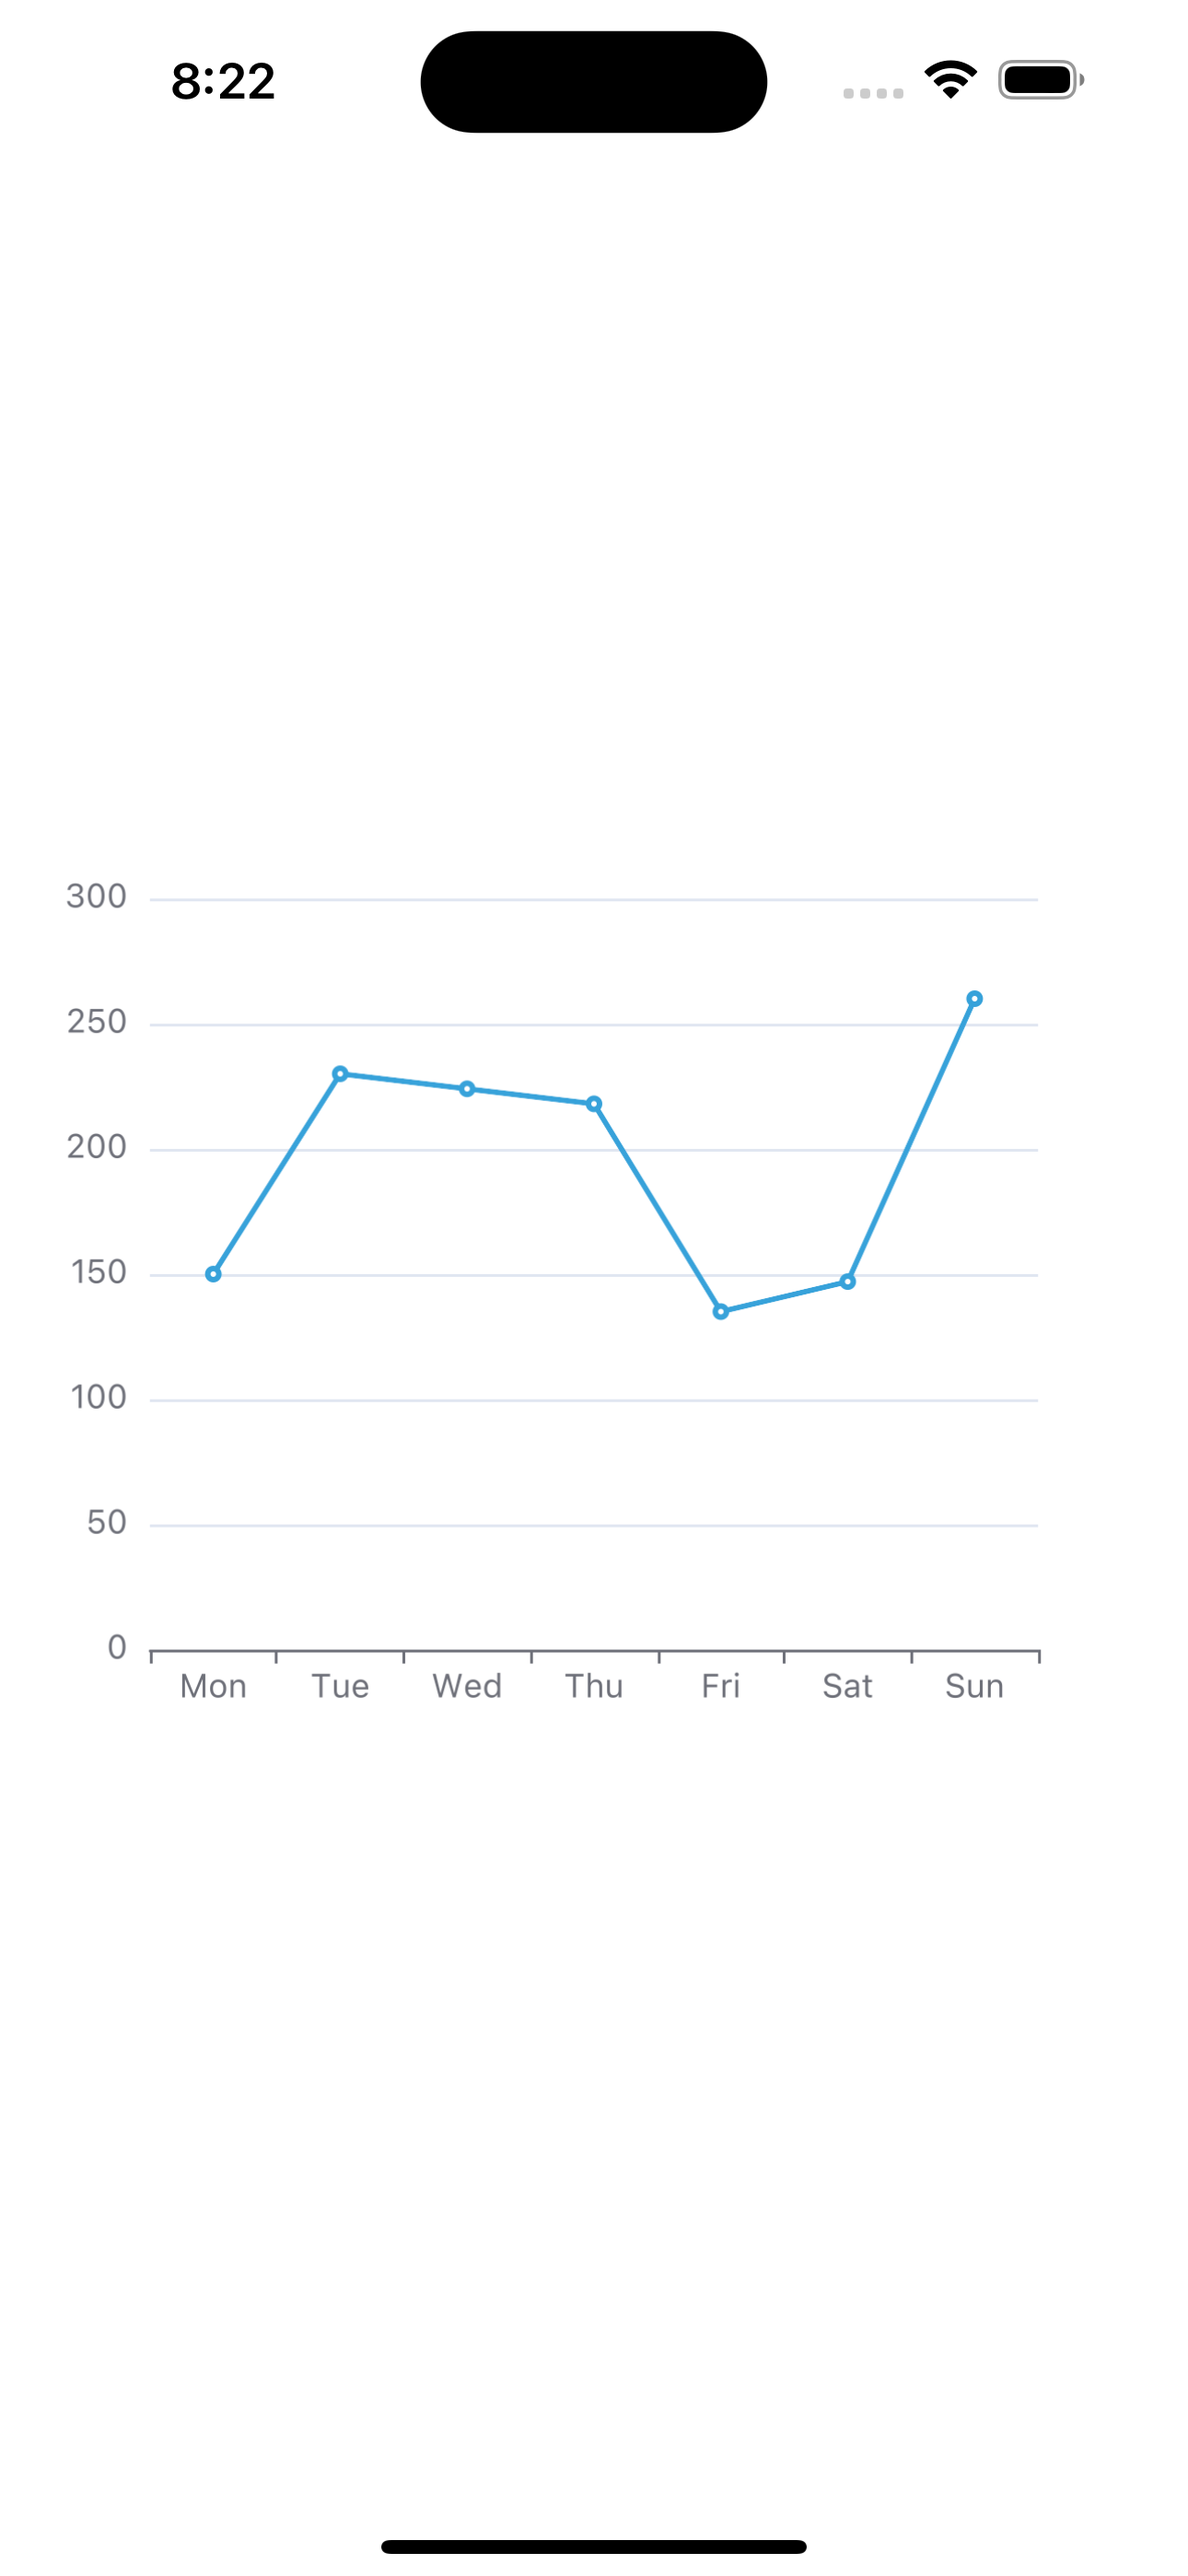
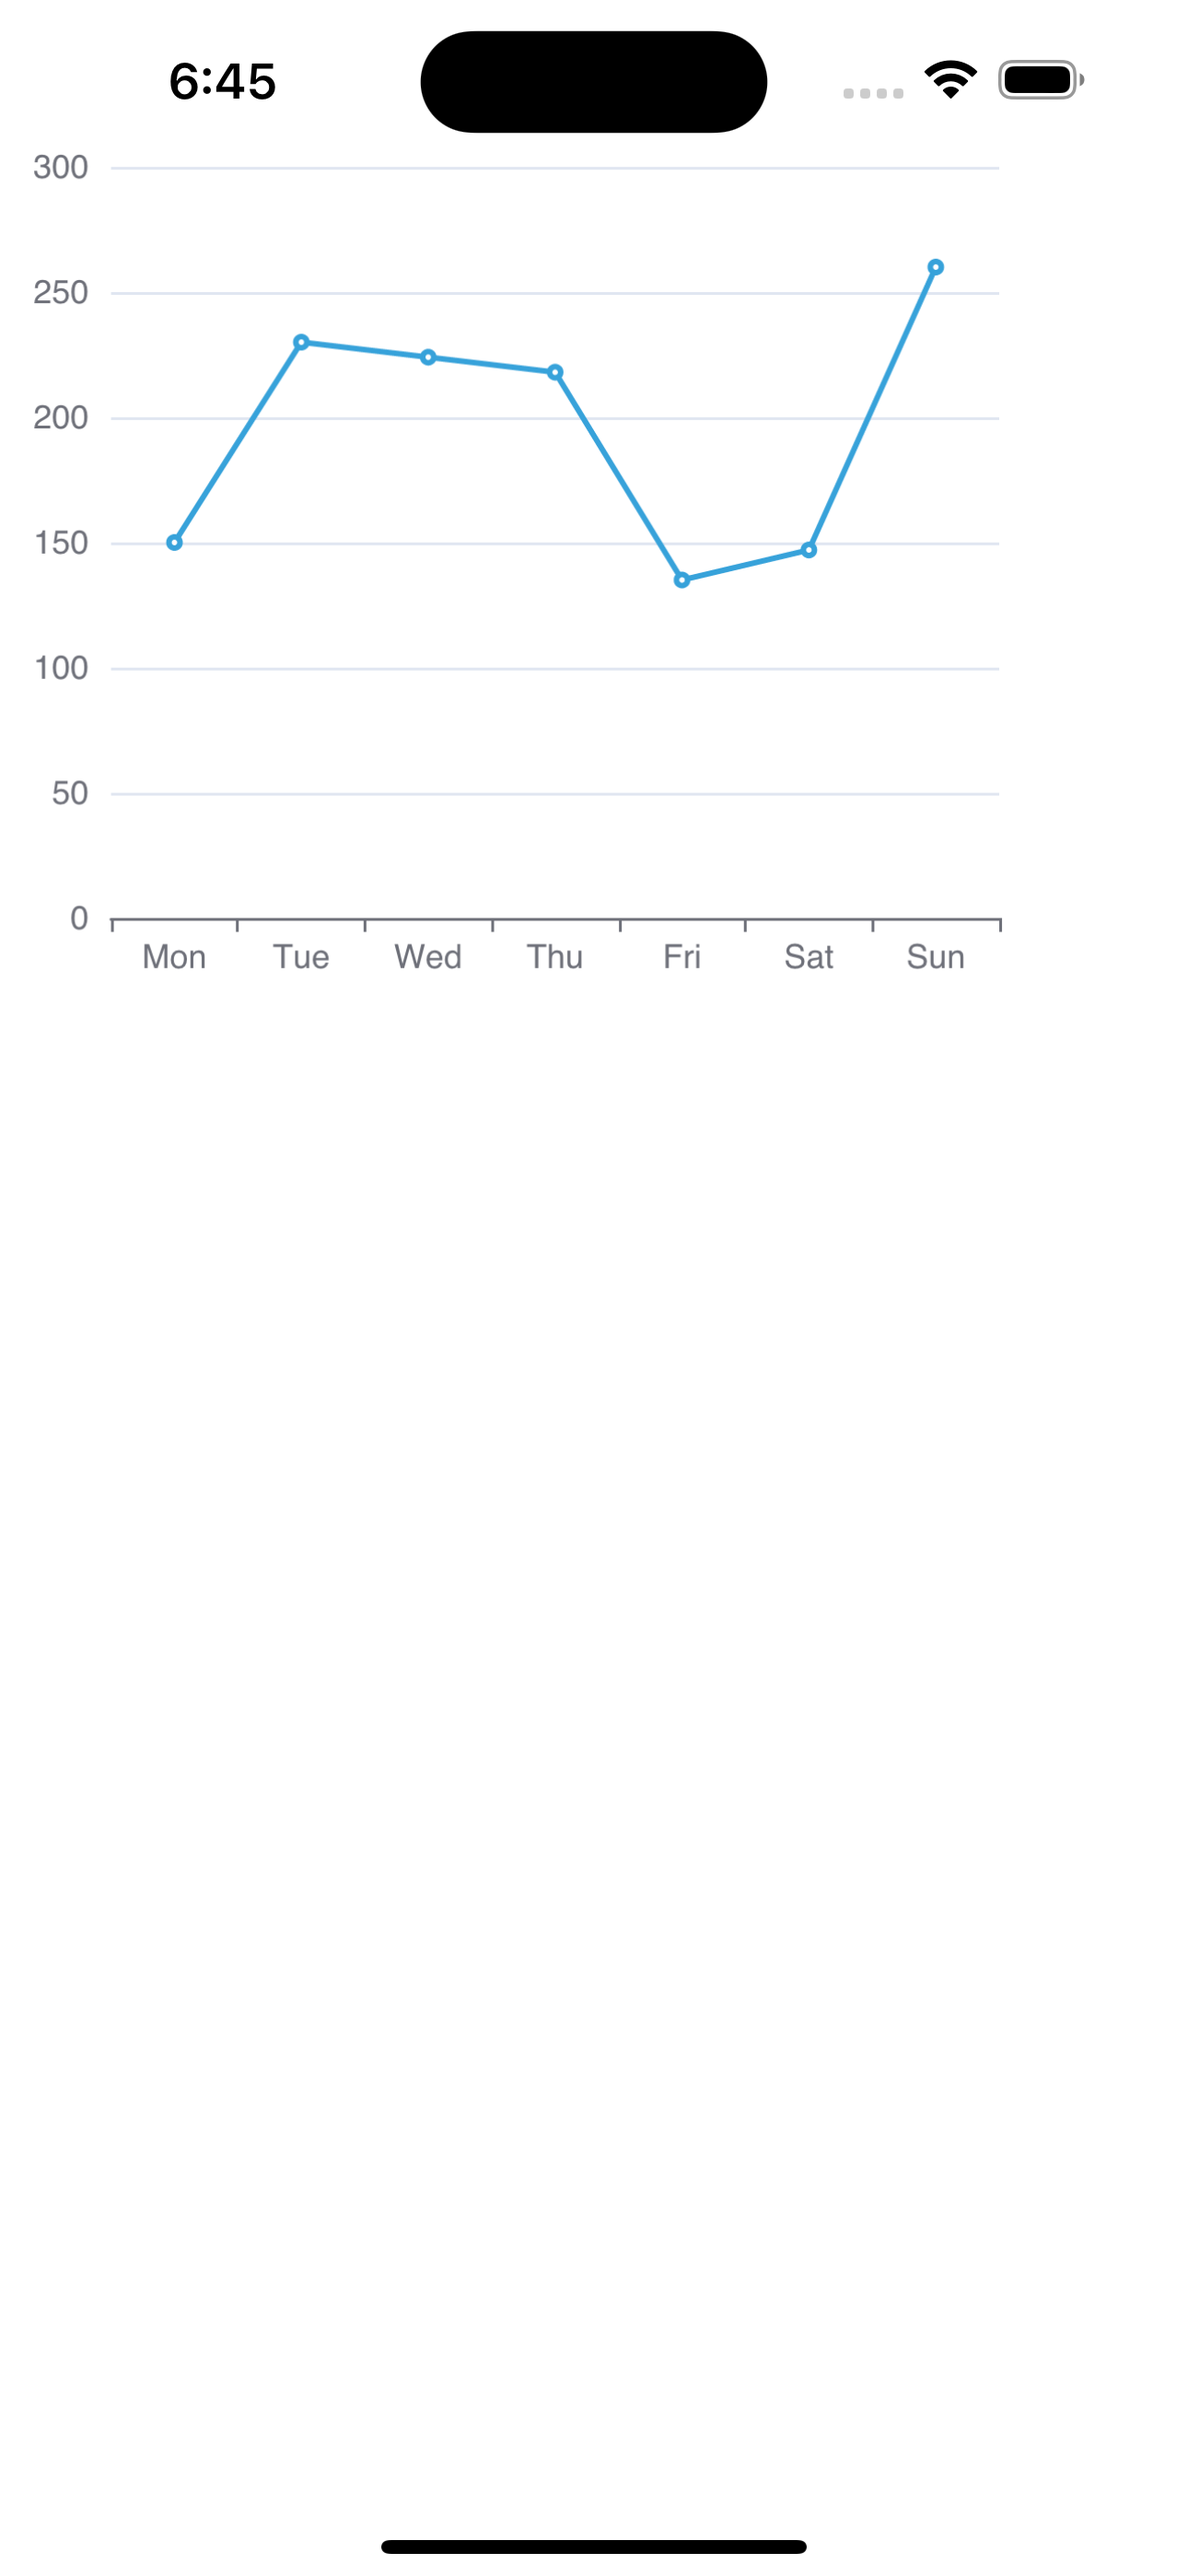
feat: update documents

diff --git a/src/components/HomepageFeatures/index.tsx b/src/components/HomepageFeatures/index.tsx
@@ -14,28 +14,25 @@ const FeatureList: FeatureItem[] = [
     Svg: require('@site/static/img/undraw_docusaurus_mountain.svg').default,
     description: (
       <>
-        Docusaurus was designed from the ground up to be easily installed and
-        used to get your website up and running quickly.
+        Built with Apache ECharts, offering customization options to represent complex data visually. The usage is almost identical to ECharts.
       </>
     ),
   },
   {
-    title: 'Focus on What Matters',
+    title: 'Creating interactive charts',
     Svg: require('@site/static/img/undraw_docusaurus_tree.svg').default,
     description: (
       <>
-        Docusaurus lets you focus on your docs, and we&apos;ll do the chores. Go
-        ahead and move your docs into the <code>docs</code> directory.
+        Experience the power of data visualization with our intuitive, interactive charts that bring your data to life.
       </>
     ),
   },
   {
-    title: 'Powered by React',
+    title: 'Powered by React Native',
     Svg: require('@site/static/img/undraw_docusaurus_react.svg').default,
     description: (
       <>
-        Extend or customize your website layout by reusing React. Docusaurus can
-        be extended while reusing the same header and footer.
+        Designed for React Native, delivering chart visualization directly in the app for a seamless experience.
       </>
     ),
   },

diff --git a/src/pages/index.tsx b/src/pages/index.tsx
@@ -18,7 +18,7 @@ function HomepageHeader() {
           <Link
             className="button button--secondary button--lg"
             to="/docs/intro">
-            Tutorial - 5min ⏱
+            Tutorial
           </Link>
         </div>
       </div>

diff --git a/docs/getting-started/write-a-simple-line-chart.md b/docs/getting-started/write-a-simple-line-chart.md
@@ -11,16 +11,17 @@ To see how it looks like in the browser, you can visit the [echarts editor](http
 1. import echarts, wrn-echarts, react. Here I have only import SkiaChart and SVGRenderer.
 
 ```tsx
-import { useRef, useEffect } from 'react';
+import React, { useRef, useEffect } from 'react';
 import * as echarts from 'echarts/core';
 import { LineChart } from 'echarts/charts';
-import SkiaChart, { SVGRenderer } from 'wrn-echarts/lib/module/skiaChart';
+import { GridComponent } from 'echarts/components';
+import { SVGRenderer, SkiaChart } from 'wrn-echarts';
 ```
 
 2. use echarts.use to register the renderer and chart.
 
 ```tsx
-echarts.use([ SVGRenderer, LineChart ])
+echarts.use([SVGRenderer, LineChart, GridComponent]);
 ```
 
 3. create a ref for the SkiaChart.
@@ -38,18 +39,18 @@ export default function App() {
 const option = {
   xAxis: {
     type: 'category',
-    data: ['Mon', 'Tue', 'Wed', 'Thu', 'Fri', 'Sat', 'Sun']
+    data: ['Mon', 'Tue', 'Wed', 'Thu', 'Fri', 'Sat', 'Sun'],
   },
   yAxis: {
-    type: 'value'
+    type: 'value',
   },
   series: [
     {
       data: [150, 230, 224, 218, 135, 147, 260],
-      type: 'line'
-    }
-  ]
-}
+      type: 'line',
+    },
+  ],
+};
 ```
 
 5. create a chart instance and set the option.
@@ -57,8 +58,8 @@ const option = {
 ```tsx
 let chart = echarts.init(skiaRef.current, 'light', {
   renderer: 'svg',
-  width: 250,
-  height: 300,
+  width: 400,
+  height: 400,
 });
 chart.setOption(option);
 ```
@@ -73,12 +74,13 @@ useEffect(() => {
 
 That's it! Blow is the code:
 ```tsx
-import { useRef, useEffect } from 'react';
+import React, { useRef, useEffect } from 'react';
 import * as echarts from 'echarts/core';
 import { LineChart } from 'echarts/charts';
-import SkiaChart, { SVGRenderer } from 'wrn-echarts/lib/module/skiaChart';
+import { GridComponent } from 'echarts/components';
+import { SVGRenderer, SkiaChart } from 'wrn-echarts';
 
-echarts.use([ SVGRenderer, LineChart ])
+echarts.use([SVGRenderer, LineChart, GridComponent]);
 
 export default function App() {
   const skiaRef = useRef<any>(null);
@@ -86,18 +88,18 @@ export default function App() {
     const option = {
       xAxis: {
         type: 'category',
-        data: ['Mon', 'Tue', 'Wed', 'Thu', 'Fri', 'Sat', 'Sun']
+        data: ['Mon', 'Tue', 'Wed', 'Thu', 'Fri', 'Sat', 'Sun'],
       },
       yAxis: {
-        type: 'value'
+        type: 'value',
       },
       series: [
         {
           data: [150, 230, 224, 218, 135, 147, 260],
-          type: 'line'
-        }
-      ]
-    }
+          type: 'line',
+        },
+      ],
+    };
     let chart: any;
     if (skiaRef.current) {
       chart = echarts.init(skiaRef.current, 'light', {
@@ -117,12 +119,8 @@ You should see the following screen:
 
 | iOS | Android |
 | --- | --- |
-| ![ios](./ios-line.png) | ![android](./ios-line.png) |
+| ![ios](./ios-line.png) | ![android](./android-line.jpg) |
 
-If you want to use the SvgChart, you can import it from wrn-echarts/lib/module/svgChart.
-```tsx
-import SvgChart, { SVGRenderer } from 'wrn-echarts/lib/module/svgChart';
-```
-and replace the SkiaChart with SvgChart.
+If you want to use the react-native-svg, just replace the SkiaChart with SvgChart.
 
 Next you can find more configurations to use in wrn-echarts from the [echarts examples](https://echarts.apache.org/examples/en/index.html).

diff --git a/docs/advanced-guides/import-individually.md b/docs/advanced-guides/import-individually.md
@@ -1,0 +1,15 @@
+---
+sidebar_position: 1
+---
+
+# Import individually
+
+if you only need to use the react-native-skia renderer, you can import the SVGRenderer and SkiaChart individually.
+```tsx
+import SkiaChart, { SVGRenderer } from 'wrn-echarts/lib/module/skiaChart';
+```
+
+if you only need to use the react-native-svg renderer, you can import the SVGRenderer and SvgChart individually.
+```tsx
+import SvgChart, { SVGRenderer } from 'wrn-echarts/lib/module/svgChart';
+```

diff --git a/docs/getting-started/run-example.md b/docs/getting-started/run-example.md
@@ -2,7 +2,7 @@
 sidebar_position: 2
 ---
 
-# Run the example
+# Run example
 
 1. clone wrn-echarts repo
 
@@ -34,6 +34,6 @@ That's it! You should see the following screen:
 
 | iOS | Android |
 | --- | --- |
-| ![ios](./ios.png) | ![android](./ios.png) |
+| ![ios](./ios.png) | ![android](./android.jpg) |
 
 Congratulations! You have successfully run the example.

diff --git a/docs/about/contributors.md b/docs/about/contributors.md
@@ -4,4 +4,4 @@ sidebar_position: 1
 
 # Contributors
 
-https://github.com/wuba/wrn-echarts/graphs/contributors
+<a href="https://github.com/wuba/wrn-echarts/graphs/contributors"><img src="https://opencollective.com/wrn-echarts/contributors.svg?button=false" /></a>
